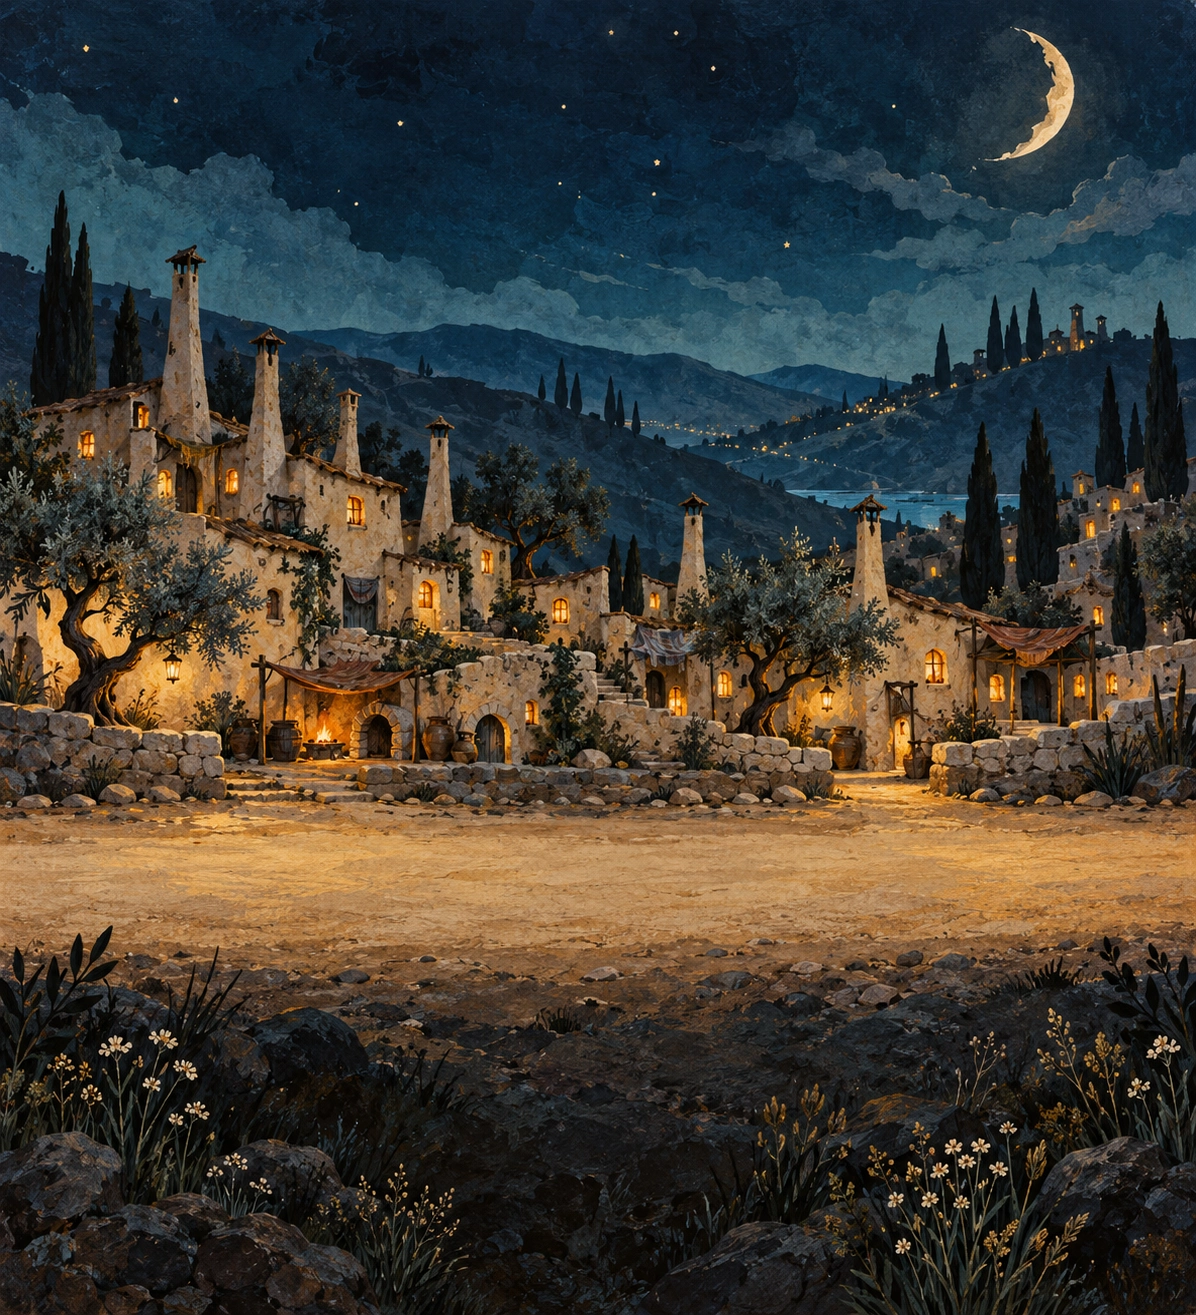
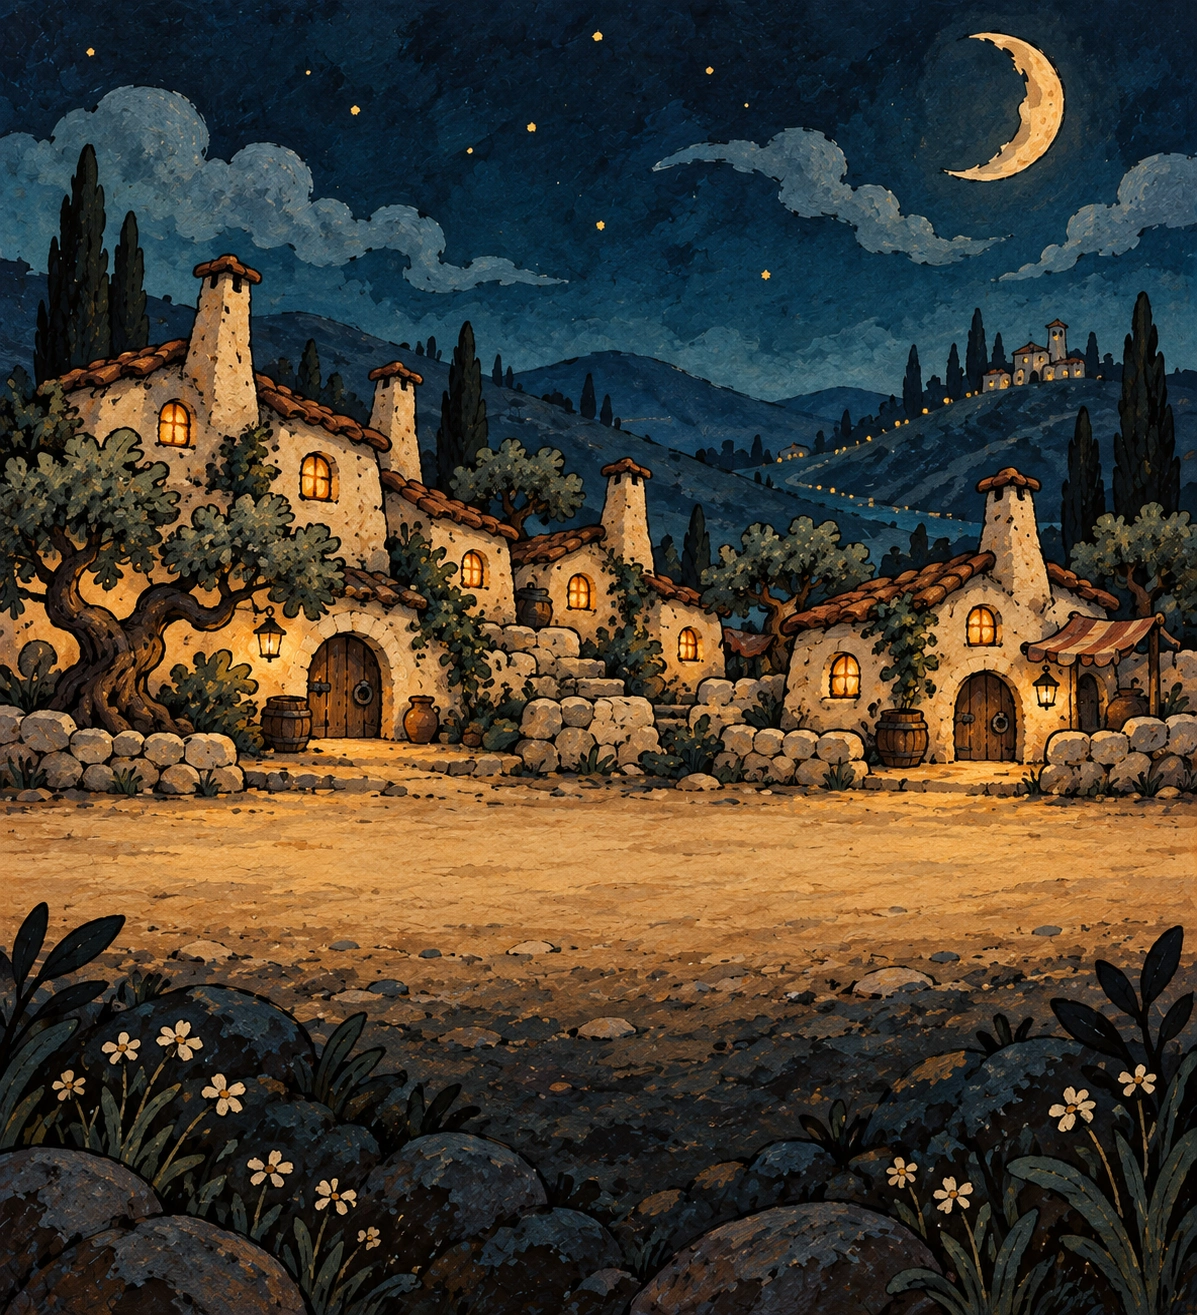
Push opening art toward plump inked storybook shapes

diff --git a/src/ui/combat-focus.css b/src/ui/combat-focus.css
@@ -57,3 +57,41 @@
  .upgrade-label { font-size:10px; }
  .buy-button { min-width:55px; }
 }
+
+/* The painted chapter uses book lettering and ink-edged, softly uneven cards. */
+#app[data-art-style="storybook"] .stage h1,
+#app[data-art-style="storybook"] .big-button,
+#app[data-art-style="storybook"] .unit-name,
+#app[data-art-style="storybook"] .pause-banner {
+ font-family:Georgia,'Palatino Linotype',serif;
+ font-weight:700;
+}
+#app[data-art-style="storybook"] .stage h1 {
+ text-shadow:0 2px 0 #182b31,0 4px 14px #101f2bd9;
+}
+#app[data-art-style="storybook"] .scene-name {
+ font-family:Georgia,'Palatino Linotype',serif;
+ font-style:italic;
+}
+#app[data-art-style="storybook"] .deployment {
+ background:linear-gradient(180deg,#334347,#1d3038);
+}
+#app[data-art-style="storybook"] .unit-card {
+ border-color:#aa9976;
+ border-radius:15px 12px 17px 11px;
+ background:radial-gradient(ellipse at 50% 72%,#788476 0%,#465953 52%,#293b42 100%);
+ box-shadow:0 3px 0 #13262c,inset 0 0 0 1px #d4c69d29;
+}
+#app[data-art-style="storybook"] .unit-card::after {
+ border-radius:12px 9px 14px 8px;
+ border-color:#d9cda84a;
+}
+#app[data-art-style="storybook"] .unit-card.affordable {
+ border-color:#f3dba5;
+ box-shadow:0 3px 0 #13262c,inset 0 0 0 1px #f3dba56b;
+}
+#app[data-art-style="storybook"] .unit-price { background:#213338; }
+#app[data-art-style="storybook"] .big-button {
+ border-radius:16px 13px 18px 12px;
+ text-shadow:0 1px #fff1c18c;
+}

diff --git a/src/main.ts b/src/main.ts
@@ -94,6 +94,8 @@ function update(force=false){
   const now=performance.now();if(!force&&now-lastUpdate<80)return;lastUpdate=now;
  const p=game.profile,s=game.state;
  $('world').dataset.phase=s.phase;
+ const artStyle=p.age===0?'storybook':'legacy';
+ if(root!.dataset.artStyle!==artStyle)root!.dataset.artStyle=artStyle;
   textIfChanged($('coins'),money(p.coins));textIfChanged($('gems'),money(p.gems));
   textIfChanged($('timeline'),`TIMELINE ${p.timeline} · BATTLE ${p.enemyAge+1}`);textIfChanged($('age-title'),chapterPresentation(p.age).title);
   textIfChanged($('scene-name'),chapterPresentation(p.age).subtitle);

diff --git a/art-source/storybook/README.md b/art-source/storybook/README.md
@@ -2,6 +2,8 @@
 
 Art direction requested by the user, 2026-09-29: tactile picture-book ink and gouache, round bellies and short limbs, crooked Levantine limestone architecture, warm lanterns against uneasy indigo skies. Expressions are peculiar and endearing. No named artist or commercial asset pack was used.
 
+The follow-up shape-language pass repainted the village and shelter after the user reiterated this direction. The earlier environment leaned too realistic. The shipped revision uses fewer, plumper cottages, broader opaque paint shapes, stronger imperfect ink outlines and more exaggerated crooked architecture. Display lettering and card surfaces now echo a printed storybook. Gameplay values keep the existing readable sans-serif typography.
+
 ## Source and production
 
 Five original assets were generated with the built-in image generation tool: `village.webp`, `shelter.webp`, and three six-pose character sheets (`pathkeeper`, `thrower`, `rider`). These are high-quality WebP copies of the generated source images. Discarded realistic and thin-character drafts are not shipped.
